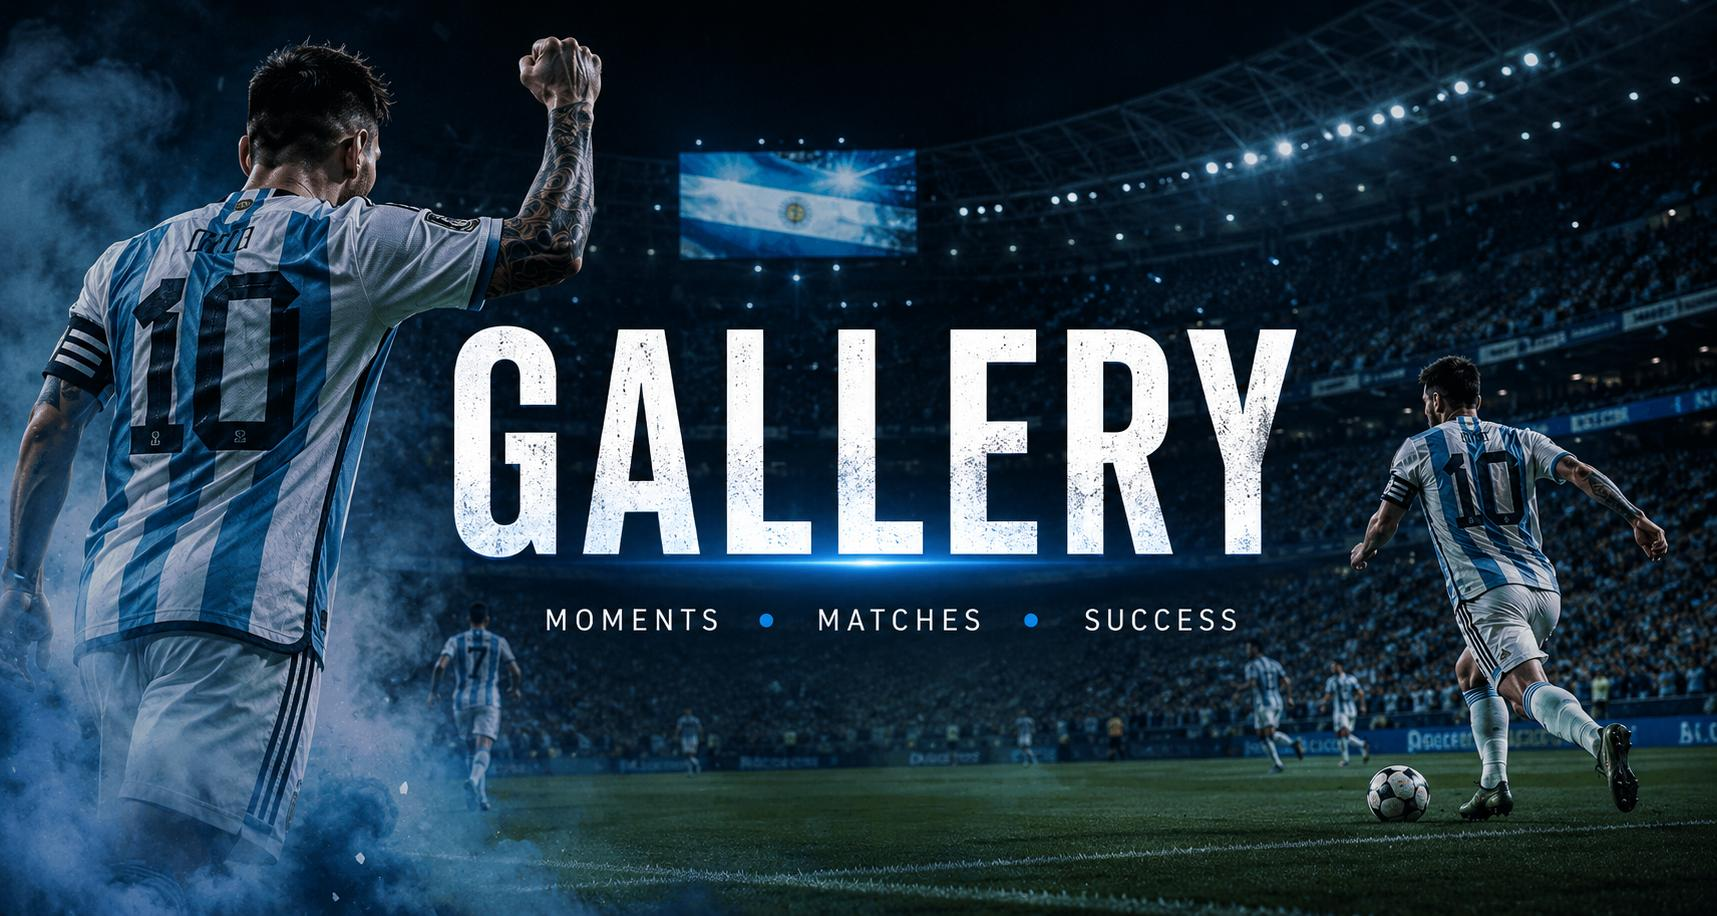
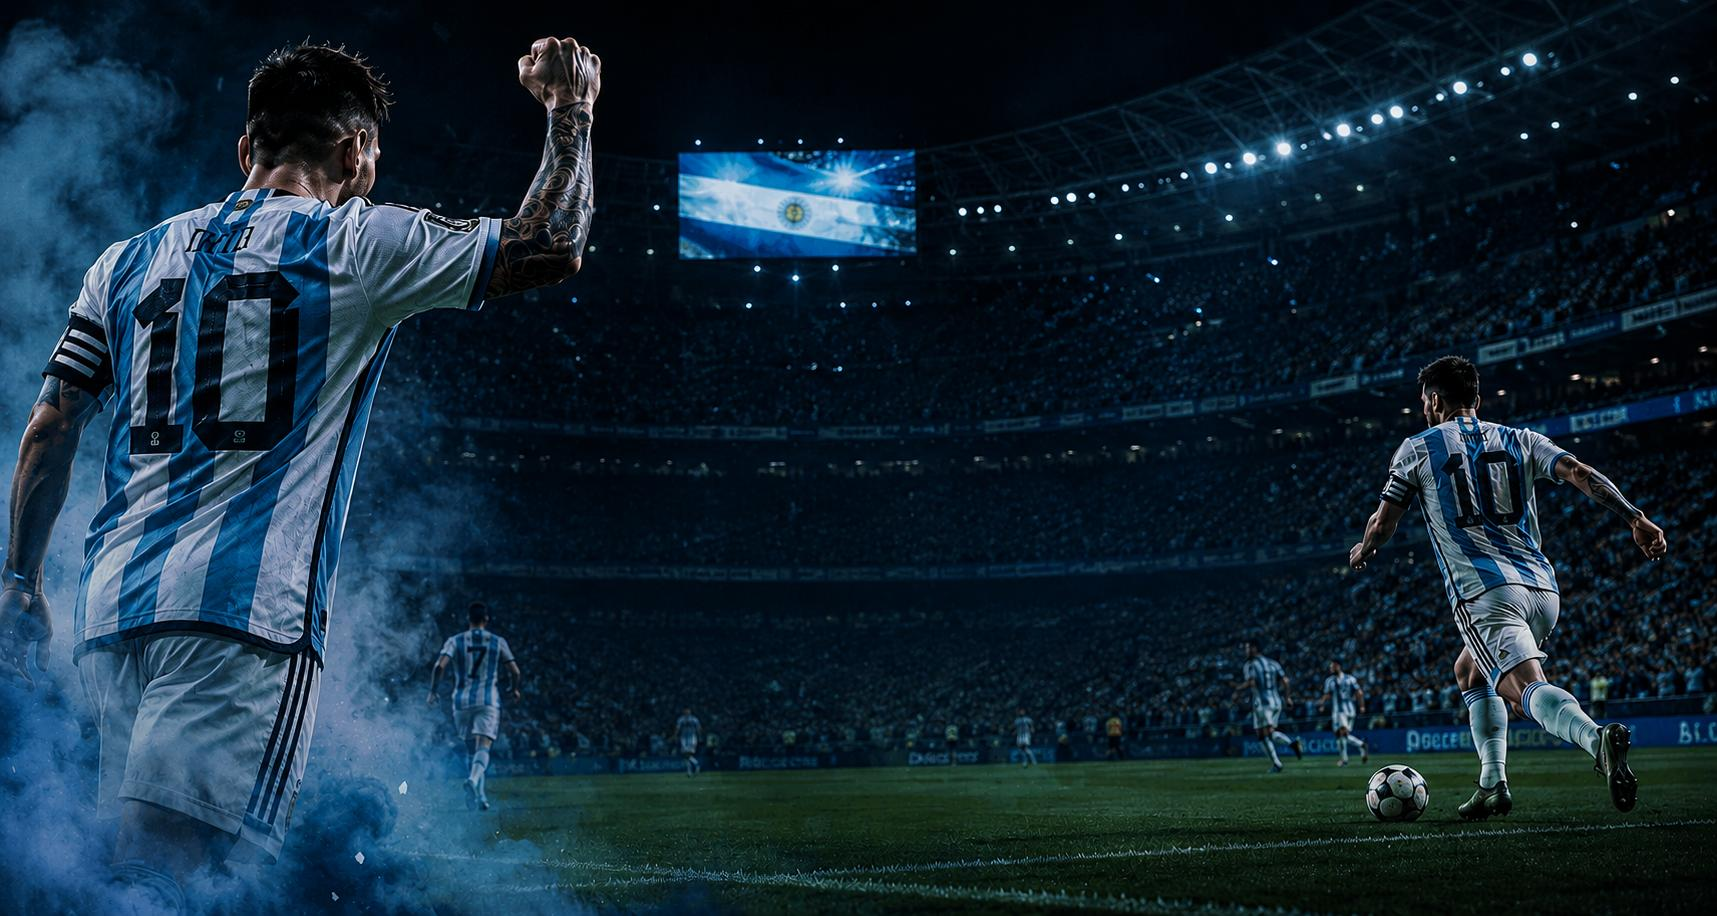
update gallery

diff --git a/style-new.css b/style-new.css
@@ -1340,3 +1340,211 @@ ul{
 
 }
 
+/*==================================================
+GALLERY
+==================================================*/
+
+.gallery-section{
+
+    padding:120px 0;
+
+    background:#081421;
+
+}
+
+.gallery-section h2{
+
+    text-align:center;
+
+    font-size:52px;
+
+    margin-bottom:20px;
+
+}
+
+.gallery-subtitle{
+
+    text-align:center;
+
+    color:#bfd3e6;
+
+    margin-bottom:60px;
+
+    font-size:20px;
+
+}
+
+.gallery-filter{
+
+    display:flex;
+
+    justify-content:center;
+
+    gap:18px;
+
+    flex-wrap:wrap;
+
+    margin-bottom:70px;
+
+}
+
+.gallery-filter button{
+
+    padding:14px 28px;
+
+    border:none;
+
+    border-radius:40px;
+
+    background:rgba(255,255,255,.05);
+
+    color:white;
+
+    cursor:pointer;
+
+    transition:.35s;
+
+    backdrop-filter:blur(15px);
+
+}
+
+.gallery-filter button:hover{
+
+    background:#2EB8FF;
+
+}
+
+.gallery-filter .active{
+
+    background:#2EB8FF;
+
+}
+
+.gallery-grid{
+
+    display:grid;
+
+    grid-template-columns:repeat(3,1fr);
+
+    gap:25px;
+
+}
+
+.gallery-item{
+
+    position:relative;
+
+    overflow:hidden;
+
+    border-radius:24px;
+
+}
+
+.gallery-item.large{
+
+    grid-column:span 2;
+
+}
+
+.gallery-item.tall{
+
+    grid-row:span 2;
+
+}
+
+.gallery-item img{
+
+    width:100%;
+
+    height:100%;
+
+    display:block;
+
+    object-fit:cover;
+
+    transition:.5s;
+
+}
+
+.gallery-item{
+
+    height:340px;
+
+}
+
+.gallery-item.large{
+
+    height:420px;
+
+}
+
+.gallery-item.tall{
+
+    height:705px;
+
+}
+
+.gallery-item::after{
+
+    content:"";
+
+    position:absolute;
+
+    inset:0;
+
+    background:rgba(5,15,25,.45);
+
+    opacity:0;
+
+    transition:.4s;
+
+}
+
+.gallery-item:hover img{
+
+    transform:scale(1.08);
+
+}
+
+.gallery-item:hover::after{
+
+    opacity:1;
+
+}
+
+@media(max-width:768px){
+
+.gallery-grid{
+
+    grid-template-columns:1fr;
+
+}
+
+.gallery-item,
+.gallery-item.large,
+.gallery-item.tall{
+
+    grid-column:auto;
+
+    grid-row:auto;
+
+    height:300px;
+
+}
+
+.gallery-filter{
+
+    gap:12px;
+
+}
+
+.gallery-filter button{
+
+    padding:12px 22px;
+
+    font-size:15px;
+
+}
+
+}
+

diff --git a/gallery.html b/gallery.html
@@ -64,41 +64,63 @@ href="https://cdnjs.cloudflare.com/ajax/libs/font-awesome/6.7.2/css/all.min.css"
 
 </section>
 
-<section class="page-section">
+<section class="gallery-section">
 
-<div class="container">
+    <div class="container">
 
-<h2>Latest Moments</h2>
+        <h2>Our Gallery</h2>
 
-<div class="gallery-grid">
+        <p class="gallery-subtitle">
+            Moments from matches, training sessions and unforgettable victories.
+        </p>
 
-    <div class="gallery-item">
-        <img src="images/gallery1.jpg" alt="">
+        <div class="gallery-filter">
+
+            <button class="active">All</button>
+            <button>Matches</button>
+            <button>Training</button>
+            <button>Players</button>
+            <button>Events</button>
+
+        </div>
+
+        <div class="gallery-grid">
+
+            <div class="gallery-item large">
+                <img src="images/gallery1.jpg" alt="">
+            </div>
+
+            <div class="gallery-item">
+                <img src="images/gallery2.jpg" alt="">
+            </div>
+
+            <div class="gallery-item">
+                <img src="images/gallery3.jpg" alt="">
+            </div>
+
+            <div class="gallery-item tall">
+                <img src="images/gallery4.jpg" alt="">
+            </div>
+
+            <div class="gallery-item">
+                <img src="images/gallery5.jpg" alt="">
+            </div>
+
+            <div class="gallery-item">
+                <img src="images/gallery6.jpg" alt="">
+            </div>
+
+            <div class="gallery-item large">
+                <img src="images/gallery7.jpg" alt="">
+            </div>
+
+            <div class="gallery-item">
+                <img src="images/gallery8.jpg" alt="">
+            </div>
+
+        </div>
+
     </div>
-
-    <div class="gallery-item">
-        <img src="images/gallery2.jpg" alt="">
-    </div>
-
-    <div class="gallery-item">
-        <img src="images/gallery3.jpg" alt="">
-    </div>
-
-    <div class="gallery-item">
-        <img src="images/gallery4.jpg" alt="">
-    </div>
-
-    <div class="gallery-item">
-        <img src="images/gallery5.jpg" alt="">
-    </div>
-
-    <div class="gallery-item">
-        <img src="images/gallery6.jpg" alt="">
-    </div>
-
-</div>
-
-</div>
 
 </section>
 